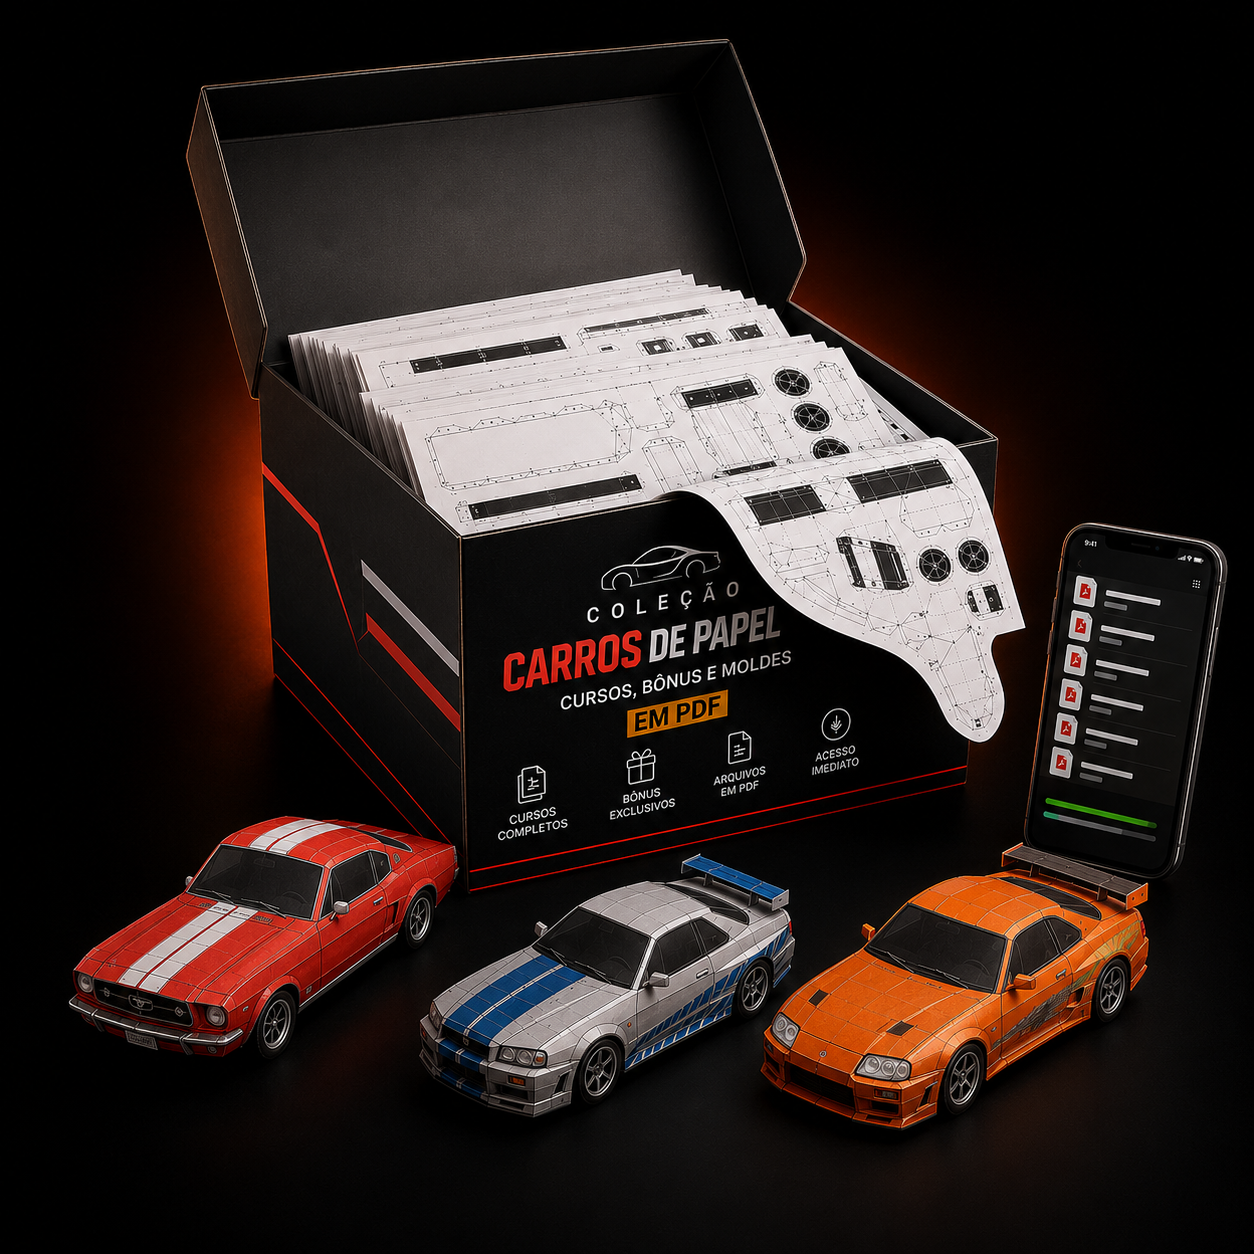
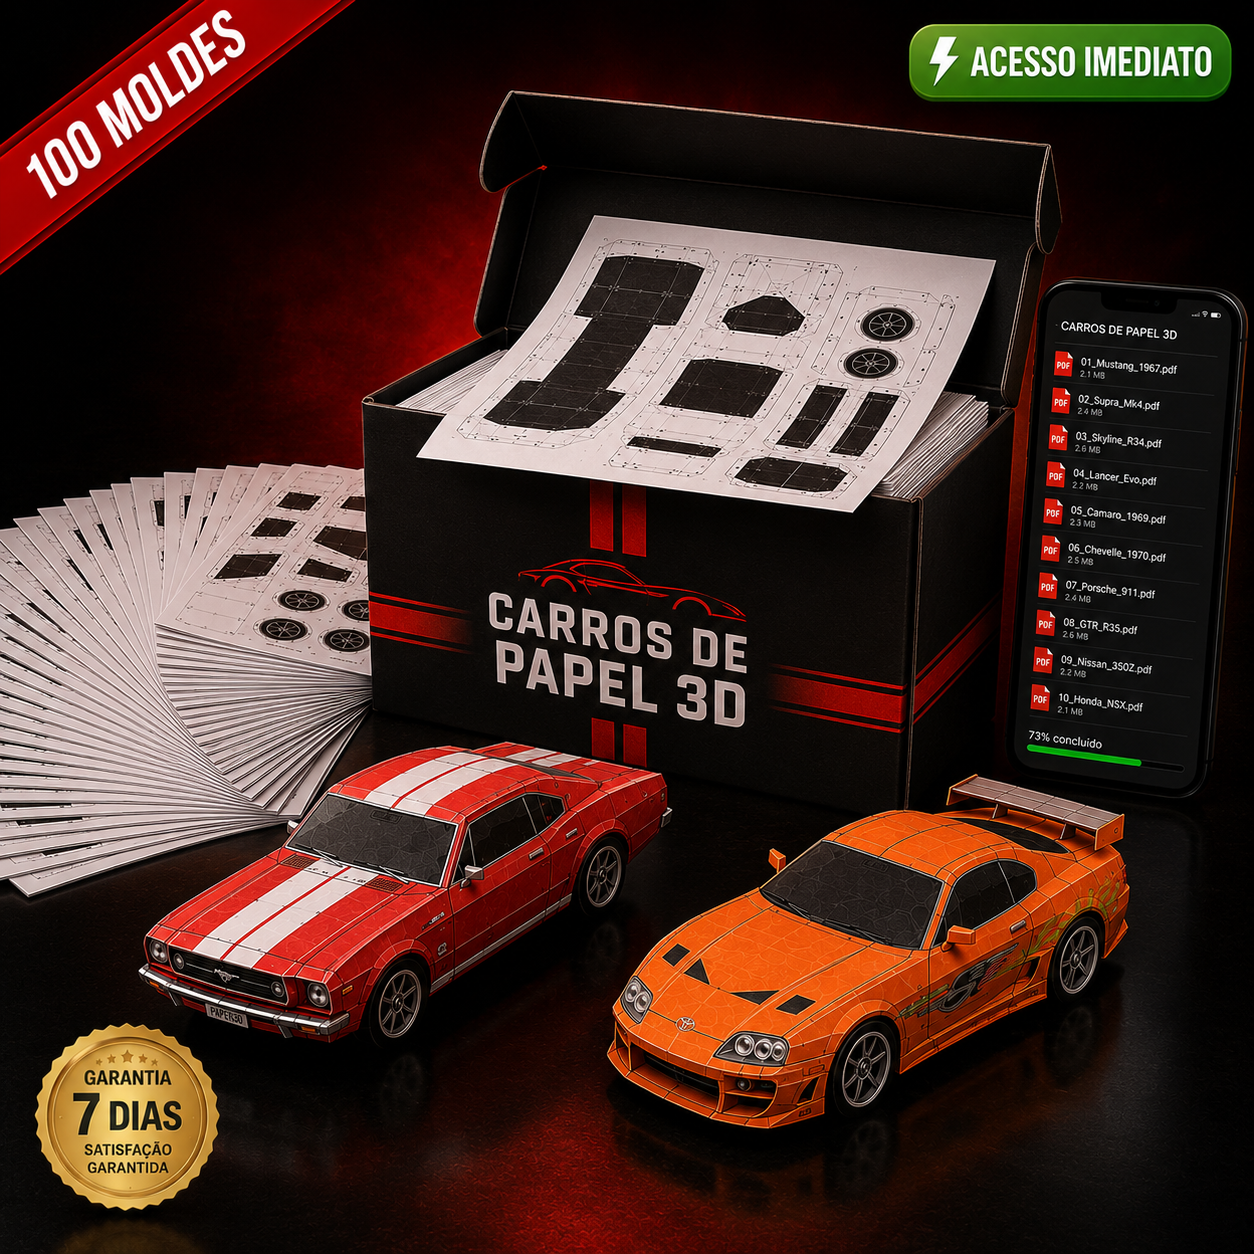
perf: LazyMotion bundle, AVIF/WebP images, cleanup CSS

diff --git a/app/page.tsx b/app/page.tsx
@@ -1,3 +1,4 @@
+import { MotionProvider } from '@/components/motion-provider';
 import { Hero } from '@/components/blocks/Hero';
 import { Benefits } from '@/components/blocks/Benefits';
 import { ShowcaseCarousel } from '@/components/ShowcaseCarousel';
@@ -12,18 +13,20 @@ import { Footer } from '@/components/blocks/Footer';
 
 export default function Home() {
   return (
-    <main className="flex min-h-screen flex-col items-center justify-between w-full overflow-hidden bg-background">
-      <Hero />
-      <Benefits />
-      <ShowcaseCarousel />
-      <SocialProof />
-      <Requirements />
-      <Bonuses />
-      <Plans />
-      <ExpertSection />
-      <Guarantee />
-      <FAQ />
-      <Footer />
-    </main>
+    <MotionProvider>
+      <main className="flex min-h-screen flex-col items-center justify-between w-full overflow-hidden bg-background">
+        <Hero />
+        <Benefits />
+        <ShowcaseCarousel />
+        <SocialProof />
+        <Requirements />
+        <Bonuses />
+        <Plans />
+        <ExpertSection />
+        <Guarantee />
+        <FAQ />
+        <Footer />
+      </main>
+    </MotionProvider>
   );
 }

diff --git a/components/ShowcaseCarousel.tsx b/components/ShowcaseCarousel.tsx
@@ -2,7 +2,7 @@
 
 import { useState, useEffect, useRef, useCallback } from 'react';
 import Image from 'next/image';
-import { motion, AnimatePresence } from 'framer-motion';
+import { m as motion, AnimatePresence } from 'framer-motion';
 import { ChevronLeft, ChevronRight, Car } from 'lucide-react';
 import { showcaseCars } from '@/data/showcase-cars';
 
@@ -133,7 +133,7 @@ export function ShowcaseCarousel() {
           <button
             onClick={goPrev}
             aria-label="Carro anterior"
-            className="absolute left-3 top-1/2 -translate-y-1/2 z-20 w-10 h-10 rounded-full bg-black/40 bg-black/20 hover:bg-black/60 flex items-center justify-center text-white transition-all duration-200
+            className="absolute left-3 top-1/2 -translate-y-1/2 z-20 w-10 h-10 rounded-full bg-black/40 hover:bg-black/60 flex items-center justify-center text-white transition-all duration-200
               opacity-100 md:opacity-0 md:group-hover:opacity-100
               focus-visible:opacity-100 focus-visible:outline-none focus-visible:ring-2 focus-visible:ring-orange-500"
           >
@@ -144,7 +144,7 @@ export function ShowcaseCarousel() {
           <button
             onClick={goNext}
             aria-label="Próximo carro"
-            className="absolute right-3 top-1/2 -translate-y-1/2 z-20 w-10 h-10 rounded-full bg-black/40 bg-black/20 hover:bg-black/60 flex items-center justify-center text-white transition-all duration-200
+            className="absolute right-3 top-1/2 -translate-y-1/2 z-20 w-10 h-10 rounded-full bg-black/40 hover:bg-black/60 flex items-center justify-center text-white transition-all duration-200
               opacity-100 md:opacity-0 md:group-hover:opacity-100
               focus-visible:opacity-100 focus-visible:outline-none focus-visible:ring-2 focus-visible:ring-orange-500"
           >
@@ -152,7 +152,7 @@ export function ShowcaseCarousel() {
           </button>
 
           {/* Counter badge */}
-          <div className="absolute top-3 right-3 z-20 bg-black/50 bg-black/20 text-white text-xs font-semibold px-2.5 py-1 rounded-full pointer-events-none">
+          <div className="absolute top-3 right-3 z-20 bg-black/50 text-white text-xs font-semibold px-2.5 py-1 rounded-full pointer-events-none">
             {activeIndex + 1} / {showcaseCars.length}
           </div>
         </motion.div>

diff --git a/components/motion-provider.tsx b/components/motion-provider.tsx
@@ -1,0 +1,6 @@
+'use client';
+import { LazyMotion, domAnimation } from 'framer-motion';
+
+export function MotionProvider({ children }: { children: React.ReactNode }) {
+  return <LazyMotion features={domAnimation} strict>{children}</LazyMotion>;
+}

diff --git a/next.config.ts b/next.config.ts
@@ -4,6 +4,11 @@ const nextConfig: NextConfig = {
   turbopack: {
     root: process.cwd(),
   },
+  images: {
+    formats: ['image/avif', 'image/webp'],
+    minimumCacheTTL: 31536000,
+  },
+  compress: true,
 };
 
 export default nextConfig;

diff --git a/components/ExpertSection.tsx b/components/ExpertSection.tsx
@@ -1,6 +1,6 @@
 'use client';
 
-import { motion } from 'framer-motion';
+import { m as motion } from 'framer-motion';
 import Image from 'next/image';
 import { ArrowRight } from 'lucide-react';
 

diff --git a/components/blocks/Benefits.tsx b/components/blocks/Benefits.tsx
@@ -1,6 +1,6 @@
 'use client';
 
-import { motion } from 'framer-motion';
+import { m as motion } from 'framer-motion';
 import { Card, CardContent, CardHeader, CardTitle } from '@/components/ui/card';
 import { Users, Trophy, Brain, Sparkles } from 'lucide-react';
 import Image from 'next/image';

diff --git a/components/blocks/Bonuses.tsx b/components/blocks/Bonuses.tsx
@@ -1,6 +1,6 @@
 'use client';
 
-import { motion } from 'framer-motion';
+import { m as motion } from 'framer-motion';
 import { Card, CardContent } from '@/components/ui/card';
 import { Gift, BookOpen, Film, Gamepad2 } from 'lucide-react';
 import Image from 'next/image';

diff --git a/components/blocks/FAQ.tsx b/components/blocks/FAQ.tsx
@@ -1,6 +1,6 @@
 'use client';
 
-import { motion } from 'framer-motion';
+import { m as motion } from 'framer-motion';
 import {
   Accordion,
   AccordionContent,

diff --git a/components/blocks/Guarantee.tsx b/components/blocks/Guarantee.tsx
@@ -1,6 +1,6 @@
 'use client';
 
-import { motion } from 'framer-motion';
+import { m as motion } from 'framer-motion';
 import Image from 'next/image';
 
 export function Guarantee() {

diff --git a/components/blocks/Hero.tsx b/components/blocks/Hero.tsx
@@ -1,7 +1,7 @@
 'use client';
 
 import { useState, useEffect } from 'react';
-import { motion } from 'framer-motion';
+import { m as motion } from 'framer-motion';
 import { Button } from '@/components/ui/button';
 import { Timer, ArrowRight, ShieldCheck } from 'lucide-react';
 import Image from 'next/image';

diff --git a/components/blocks/Plans.tsx b/components/blocks/Plans.tsx
@@ -1,7 +1,7 @@
 'use client';
 
 import { useState } from 'react';
-import { motion, AnimatePresence } from 'framer-motion';
+import { m as motion, AnimatePresence } from 'framer-motion';
 import { Card, CardContent, CardHeader, CardTitle, CardFooter } from '@/components/ui/card';
 import { Button } from '@/components/ui/button';
 import { Check, ShieldCheck, Flame, X, Zap } from 'lucide-react';

diff --git a/components/blocks/Requirements.tsx b/components/blocks/Requirements.tsx
@@ -1,6 +1,6 @@
 'use client';
 
-import { motion } from 'framer-motion';
+import { m as motion } from 'framer-motion';
 import { Printer, FileText, Scissors } from 'lucide-react';
 
 export function Requirements() {